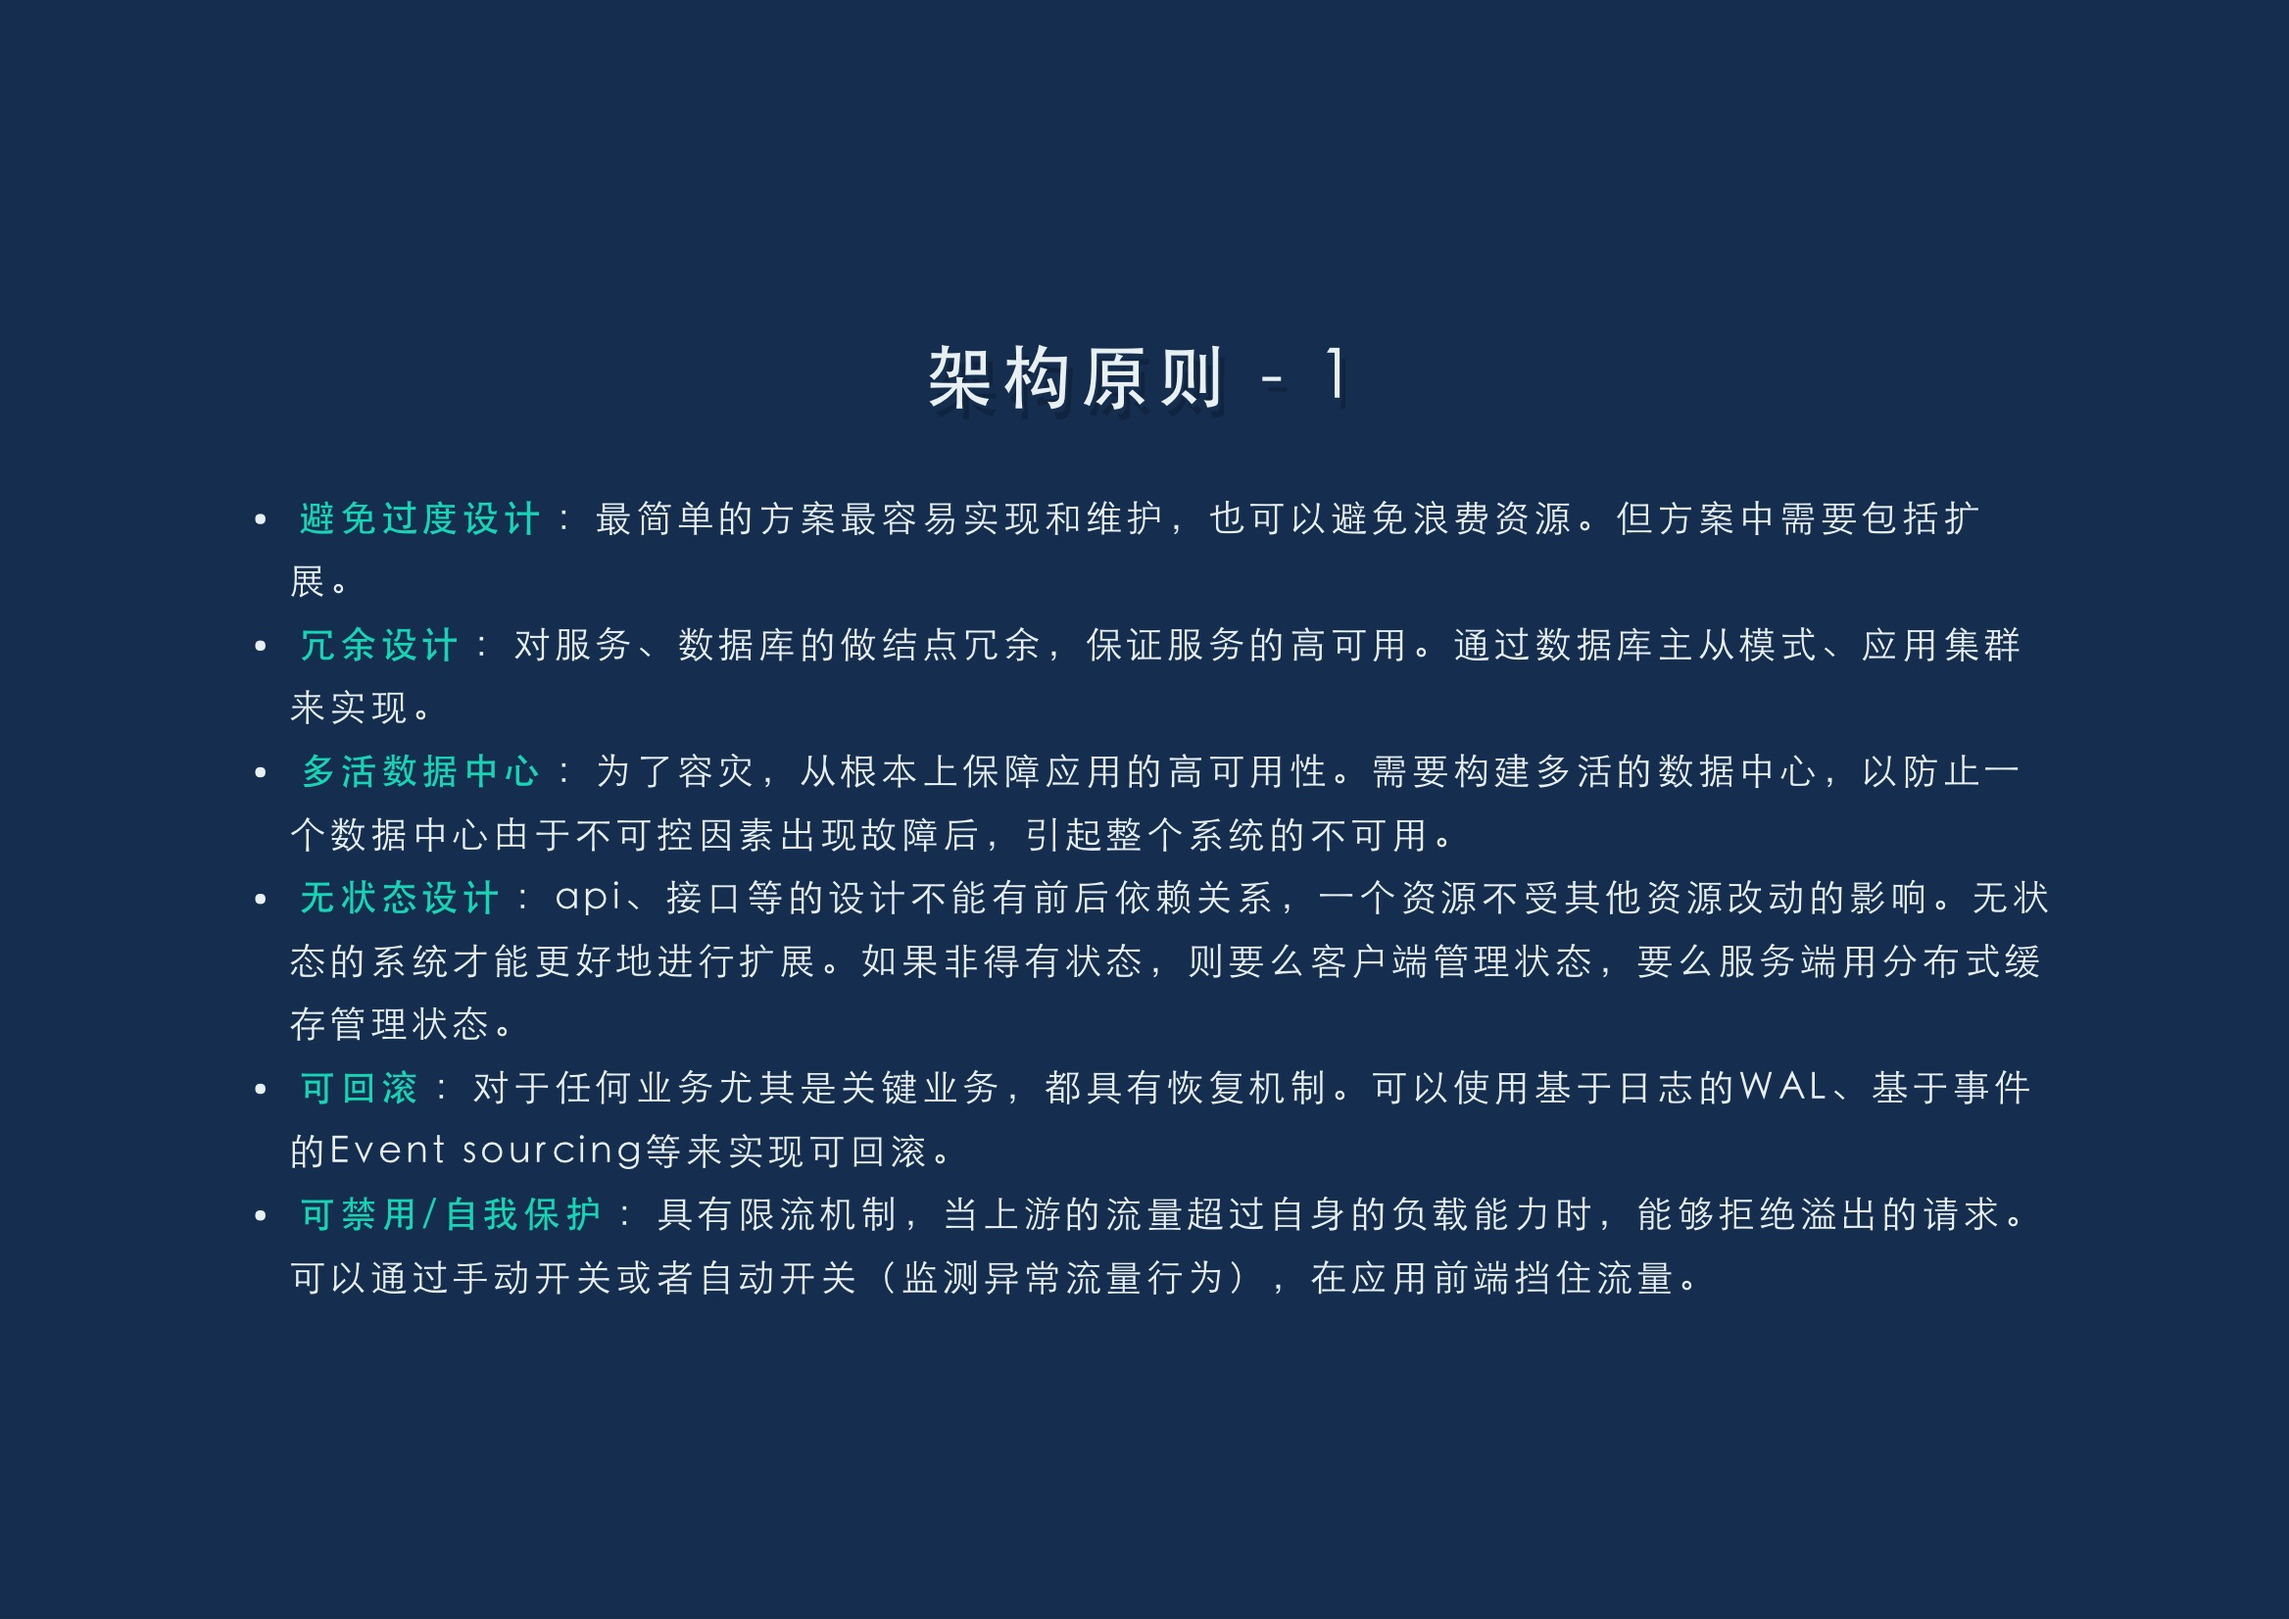
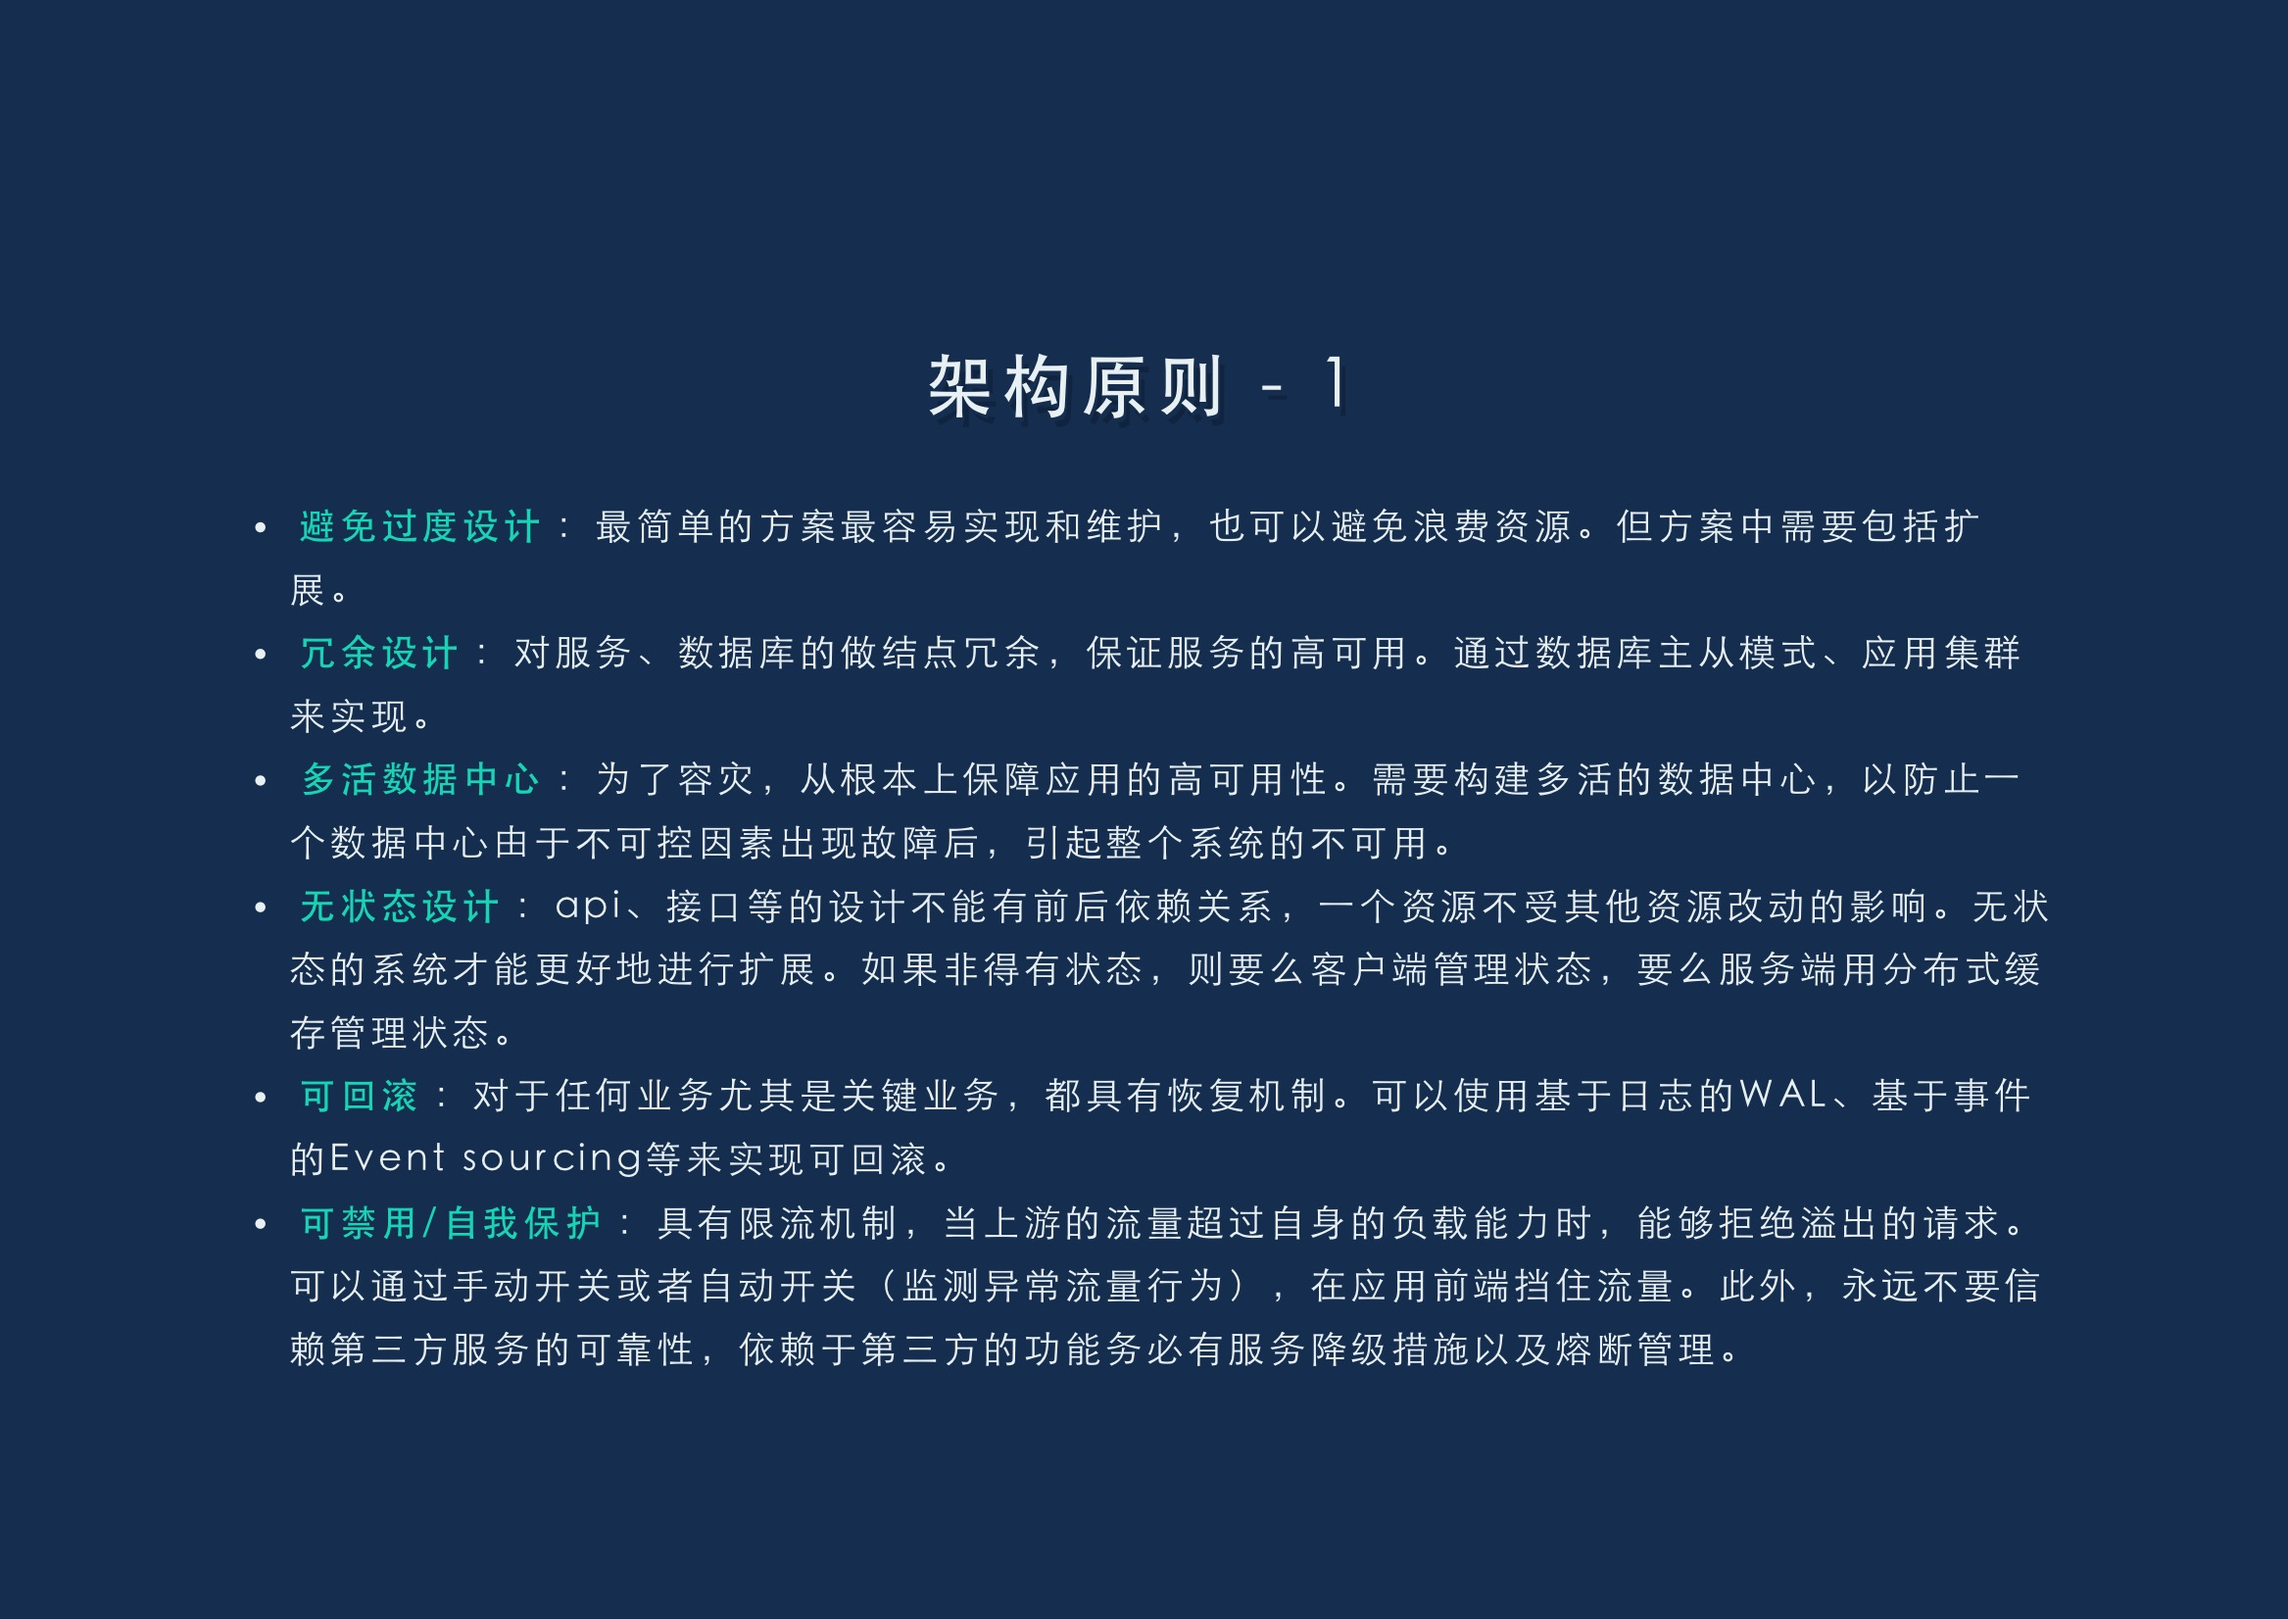
Site updated at 2018-09-03 10:20:30 UTC

Changed region(s): [[0.1233, 0.3087, 0.8942, 0.8644], [0.4009, 0.2161, 0.555, 0.2778], [0.8325, 0.3705, 0.8942, 0.4322]]

diff --git a/arch-ppt/index.html b/arch-ppt/index.html
@@ -269,7 +269,7 @@
 <li><strong>多活数据中心</strong>：为了容灾，从根本上保障应用的高可用性。需要构建多活的数据中心，以防止一个数据中心由于不可控因素出现故障后，引起整个系统的不可用。</li>
 <li><strong>无状态设计</strong>：api、接口等的设计不能有前后依赖关系，一个资源不受其他资源改动的影响。无状态的系统才能更好地进行扩展。如果非得有状态，则要么客户端管理状态，要么服务端用分布式缓存管理状态。</li>
 <li><strong>可回滚</strong>：对于任何业务尤其是关键业务，都具有恢复机制。可以使用基于日志的WAL、基于事件的Event sourcing等来实现可回滚。</li>
-<li><strong>可禁用/自我保护</strong>：具有限流机制，当上游的流量超过自身的负载能力时，能够拒绝溢出的请求。可以通过手动开关或者自动开关（监测异常流量行为），在应用前端挡住流量。</li>
+<li><strong>可禁用/自我保护</strong>：具有限流机制，当上游的流量超过自身的负载能力时，能够拒绝溢出的请求。可以通过手动开关或者自动开关（监测异常流量行为），在应用前端挡住流量。此外，永远不要信赖第三方服务的可靠性，依赖于第三方的功能务必有服务降级措施以及熔断管理。</li>
 </ul>
 
 </article></section></slide>

diff --git a/blog/2018/03/10/regx/index.html b/blog/2018/03/10/regx/index.html
@@ -351,7 +351,7 @@
 
 <hr />
 
-<p>中华万年历技术团队长期求Java研发工程师，给你挑战<strong>亿级用户</strong>、<strong>千万日活APP</strong>开发的机会。感兴趣者可发送简历到<a href="&#x6d;&#x61;&#x69;&#108;&#x74;&#x6f;&#58;&#104;&#97;&#x6e;&#x67;&#x40;&#101;&#x74;&#x6f;&#117;&#x63;&#104;&#x2e;&#x63;&#110;">&#104;&#x61;&#x6e;&#103;&#x40;&#x65;&#116;&#111;&#x75;&#x63;&#x68;&#x2e;&#99;&#x6e;</a>。要求如下：</p>
+<p>中华万年历技术团队长期求Java研发工程师，给你挑战<strong>亿级用户</strong>、<strong>千万日活APP</strong>开发的机会。感兴趣者可发送简历到<a href="&#x6d;&#97;&#105;&#108;&#116;&#x6f;&#58;&#x68;&#97;&#110;&#x67;&#x40;&#x65;&#x74;&#111;&#117;&#x63;&#x68;&#x2e;&#99;&#x6e;">&#x68;&#97;&#x6e;&#x67;&#x40;&#101;&#116;&#111;&#117;&#x63;&#x68;&#x2e;&#x63;&#x6e;</a>。要求如下：</p>
 
 <p><img src="/images/blog_images/java_job.jpg" width="350" style="margin:0 auto;display:block"/></p>
 
